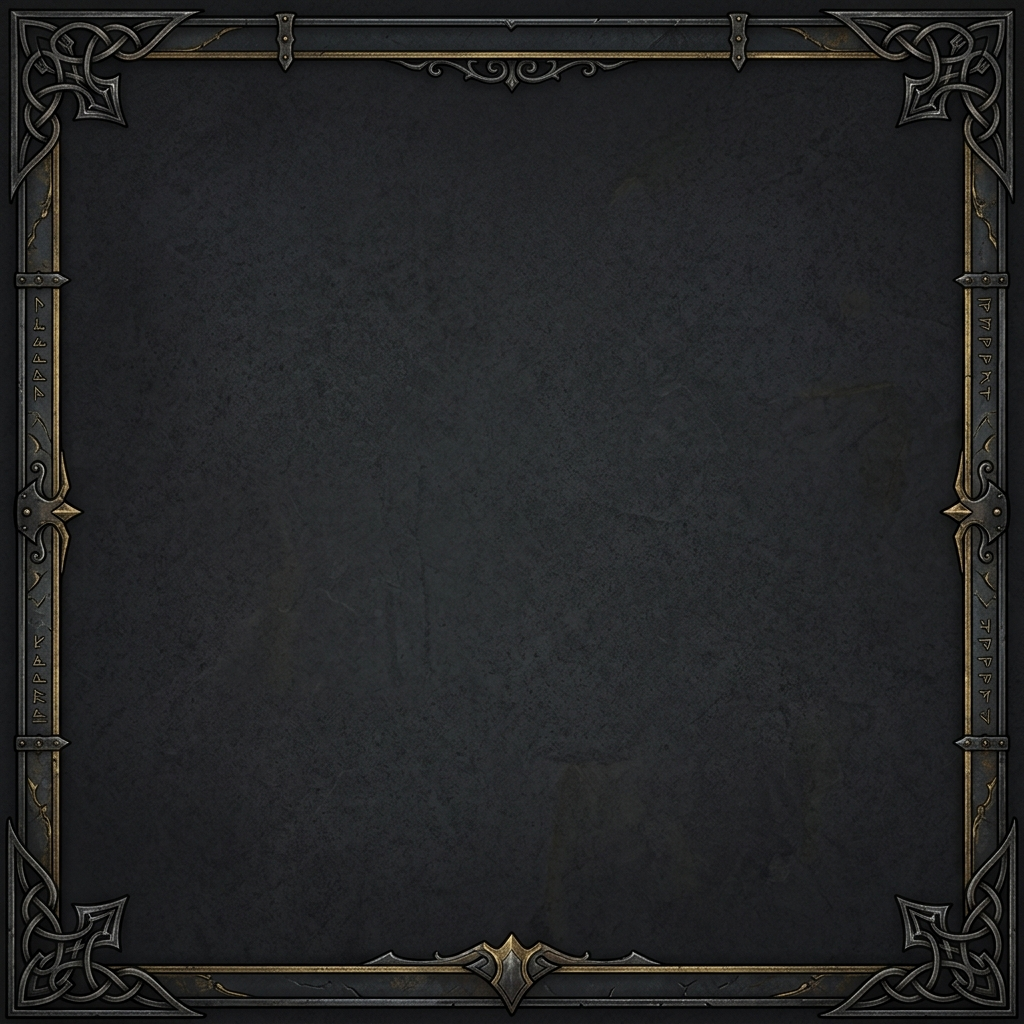
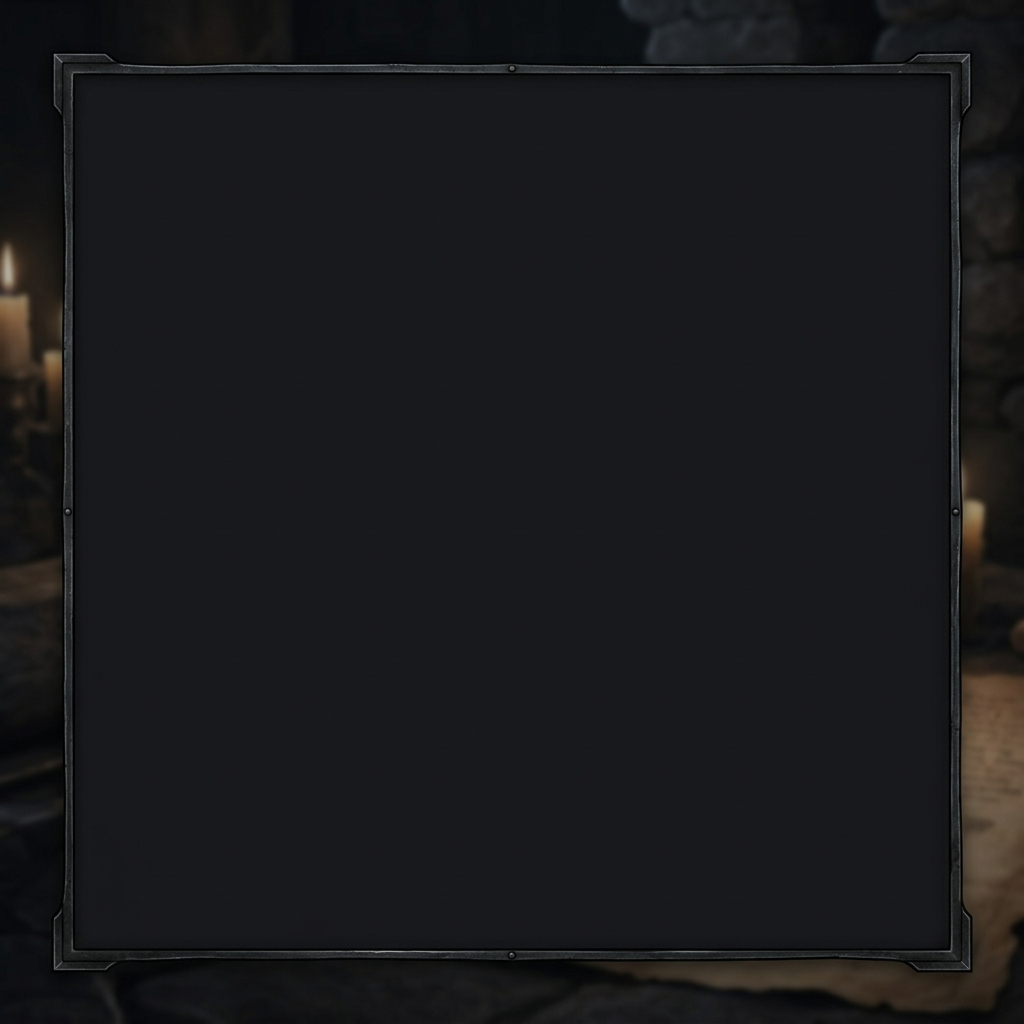
style: Refeita a moldura para minimalista e isolado os textos no cabeçalho

diff --git a/canvas/renderer.js b/canvas/renderer.js
@@ -1700,6 +1700,9 @@ async function renderMap(scene) {
     const livingCount = scene.players.filter(p => !p.incapacitado).length;
     const totalCount = scene.players.length;
 
+    const descHeight = scene.descricao ? 28 : 0;
+    drawHudBox(ctx, PAD - 14, 16, width - (PAD * 2) + 28, 70 + descHeight, 8);
+
     ctx.fillStyle = HUD_GOLD;
     ctx.font = 'bold 32px serif';
     ctx.textAlign = 'left';
